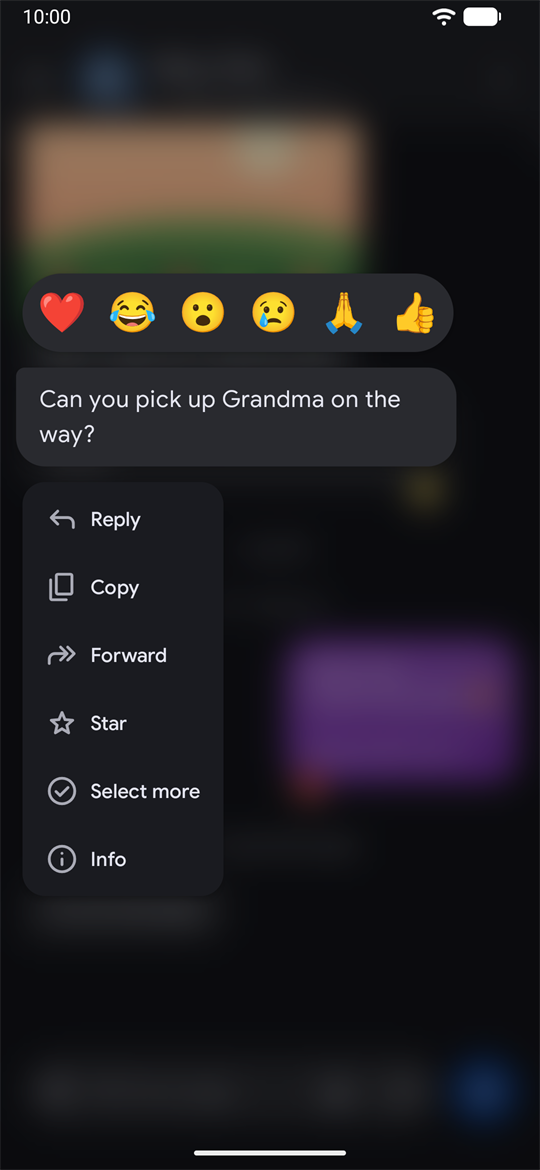
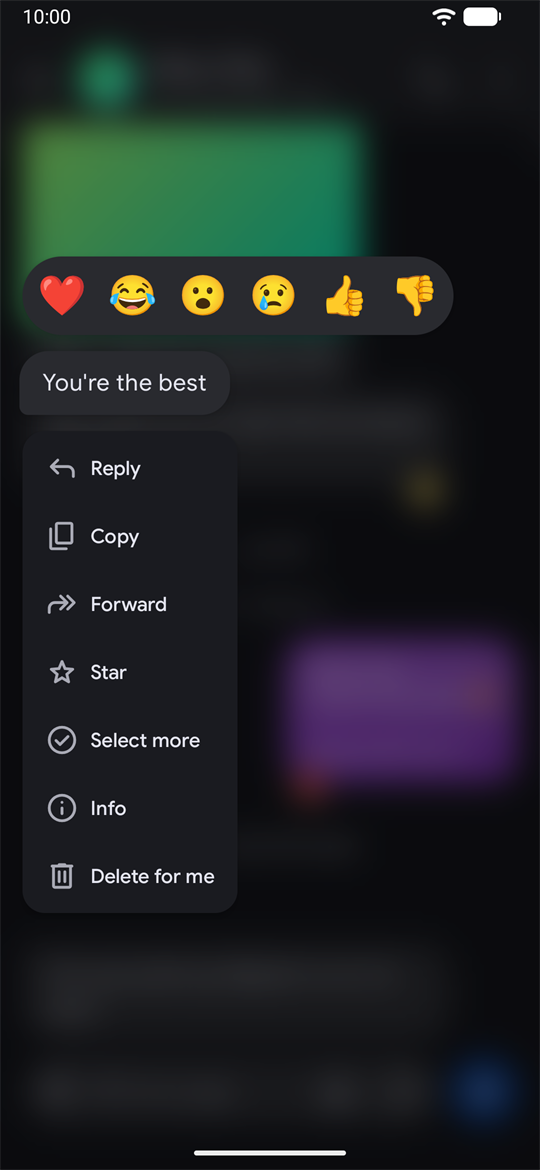
New Windows and Android pictures from 0.1.476's sample: Hermes with a table and code, voice messages that say so, labels in light mode; the separate light-mode and Android menu pictures are gone

diff --git a/windows/index.html b/windows/index.html
@@ -35,7 +35,7 @@
 
 <main>
   <h1>Message Link for Windows</h1>
-  <p class="lead">A native Windows app with all four services in one inbox. Message Link starts its own server on this PC.</p>
+  <p class="lead">A native Windows app with all four services in one inbox, and your Hermes Agent assistants beside them. Message Link starts its own server on this PC.</p>
 
   <div class="note">
     <p><strong>Coming soon to the Microsoft Store.</strong> It isn't available to download yet. This page will link to the Store listing once it's up.</p>
@@ -44,12 +44,11 @@
   <h2>A look around</h2>
   <div class="gallery">
     <figure><a href="voicemail.png"><img src="voicemail.png" width="1200" height="900" loading="lazy" alt="Dad's merged conversation with a voicemail's player and transcript."></a><figcaption>Voicemail plays in the conversation, with its transcript.</figcaption></figure>
-    <figure><a href="photo.jpg"><img src="photo.jpg" width="1200" height="900" loading="lazy" alt="A photo of a mountain lake open in the photo viewer."></a><figcaption>Photos open full size, inside the window.</figcaption></figure>
+    <figure><a href="hermes.png"><img src="hermes.png" width="1200" height="900" loading="lazy" alt="A Hermes conversation: a command Hermes held for approval, approved, then a reply with a table of photos by month, the PowerShell it ran and a note."></a><figcaption>Chat with Hermes Agent. Approve the commands it asks to run, and read its replies with tables and code.</figcaption></figure>
+    <figure><a href="photo.jpg"><img src="photo.jpg" width="1200" height="900" loading="lazy" alt="A photo of a mountain lake open in the photo viewer, over Jordan Rivera's conversation."></a><figcaption>Photos open full size in a window of their own.</figcaption></figure>
     <figure><a href="send-later.png"><img src="send-later.png" width="1200" height="900" loading="lazy" alt="The send button's menu: send in 1 hour, this evening, tomorrow morning, or choose a time."></a><figcaption>Send a message later: in an hour, this evening or at a time you choose.</figcaption></figure>
-    <figure><a href="labels.png"><img src="labels.png" width="1200" height="900" loading="lazy" alt="The list menu: Messages, Unread, Archive, Spam, Drafts, the Work, Family and Friends labels, and Saved."></a><figcaption>Labels and views narrow the conversation list.</figcaption></figure>
-    <figure><a href="console.png"><img src="console.png" width="1200" height="900" loading="lazy" alt="The chat console: recent messages from every service as lines of text."></a><figcaption>The chat console reads and answers from the keyboard.</figcaption></figure>
-    <figure><a href="light.png"><img src="light.png" width="1200" height="900" loading="lazy" alt="Message Link in light mode."></a><figcaption>Light or dark, the same as Windows or your choice.</figcaption></figure>
-  </div>
+    <figure><a href="labels.png"><img src="labels.png" width="1200" height="900" loading="lazy" alt="The list menu in light mode: Messages, Unread, Archive, Spam, Drafts, the Work, Family and Friends labels, and Saved."></a><figcaption>Labels and views narrow the conversation list. Light or dark, the same as Windows or your choice.</figcaption></figure>
+    <figure><a href="console.png"><img src="console.png" width="1200" height="900" loading="lazy" alt="The chat console in Windows Terminal: recent messages from every service as lines of text, then the conversation list."></a><figcaption>The chat console reads and answers from the keyboard, in Windows Terminal.</figcaption></figure>  </div>
   <p class="quiet">Pictures use made-up people.</p>
 
   <h2>What you need</h2>
@@ -84,6 +83,10 @@
     <div>
       <dt>Instagram</dt>
       <dd>Choose <strong>Connect</strong> and sign in with your Instagram username and password. Log in with Facebook isn't supported.</dd>
+    </div>
+    <div>
+      <dt>Hermes</dt>
+      <dd>On the server's Hermes page, choose <strong>Add an assistant</strong> and enter the Hermes profile's name. Run the one command the page shows on the computer that runs Hermes Agent.</dd>
     </div>
   </dl>
   <p>The sign-in windows are the services' own pages. Message Link never types your password for you.</p>

diff --git a/android/index.html b/android/index.html
@@ -35,7 +35,7 @@
 
 <main>
   <h1>Message Link for Android</h1>
-  <p class="lead">All four services in one inbox on your phone, through your own Message Link Server.</p>
+  <p class="lead">All four services in one inbox on your phone, and your Hermes Agent assistants beside them, through your own Message Link Server.</p>
 
   <div class="note">
     <p><strong>In invite-only testing on Google Play.</strong> It isn't public yet. This page will link to the Play listing once it's up.</p>
@@ -43,13 +43,12 @@
 
   <h2>A look around</h2>
   <div class="gallery tall">
-    <figure><a href="inbox.png"><img src="inbox.png" width="540" height="1170" loading="lazy" alt="The conversation list, with conversations from all four services."></a><figcaption>Every service in one list.</figcaption></figure>
+    <figure><a href="inbox.png"><img src="inbox.png" width="540" height="1170" loading="lazy" alt="The conversation list, with conversations from all four services and two Hermes assistants."></a><figcaption>Every service in one list.</figcaption></figure>
     <figure><a href="merged-light.png"><img src="merged-light.png" width="540" height="1170" loading="lazy" alt="Maya Chen's Instagram and Google Messages conversations shown together, in light mode."></a><figcaption>One person's conversations from several services, shown as one. Light or dark.</figcaption></figure>
+    <figure><a href="hermes.png"><img src="hermes.png" width="540" height="1170" loading="lazy" alt="A Hermes conversation: a question about a hike, and a reply with a plan, a table of times and a list of what to bring."></a><figcaption>Chat with Hermes Agent. Replies appear as it writes them.</figcaption></figure>
     <figure><a href="voicemail.png"><img src="voicemail.png" width="540" height="1170" loading="lazy" alt="Grandma's Google Voice voicemail playing, its transcript lit up to the words heard so far."></a><figcaption>Voicemail plays with its transcript, which follows along.</figcaption></figure>
-    <figure><a href="actions.png"><img src="actions.png" width="540" height="1170" loading="lazy" alt="A message held down: reactions above it, and Reply, Copy, Forward, Star, Select more and Info below."></a><figcaption>Press and hold a message to react, reply, forward or star it.</figcaption></figure>
-    <figure><a href="search.png"><img src="search.png" width="540" height="1170" loading="lazy" alt="Search results for Grandma: her conversation and three messages that mention her."></a><figcaption>Search names, numbers and messages, including history kept on your server.</figcaption></figure>
-    <figure><a href="menu.png"><img src="menu.png" width="540" height="1170" loading="lazy" alt="The menu: Messages, Unread, Voicemail, each service, Remind me later, Scheduled, Drafts and Saved Messages."></a><figcaption>Views, each service, reminders, scheduled messages and drafts.</figcaption></figure>
-  </div>
+    <figure><a href="actions.png"><img src="actions.png" width="540" height="1170" loading="lazy" alt="A message held down: reactions above it, and Reply, Copy, Forward, Star, Select more, Info and Delete for me below."></a><figcaption>Press and hold a message to react, reply, forward or star it.</figcaption></figure>
+    <figure><a href="search.png"><img src="search.png" width="540" height="1170" loading="lazy" alt="Search results for Grandma: her conversation and two messages that mention her."></a><figcaption>Search names, numbers and messages, including history kept on your server.</figcaption></figure>  </div>
   <p class="quiet">Pictures use made-up people.</p>
 
   <h2>What you need</h2>

diff --git a/index.html b/index.html
@@ -35,13 +35,13 @@
 
 <main>
   <h1>All your messaging apps in one place</h1>
-  <p class="lead">Google Messages, Messenger, Google Voice and Instagram, together on your PC and your phone.</p>
+  <p class="lead">Google Messages, Messenger, Google Voice and Instagram, together on your PC and your phone, with your Hermes Agent beside them.</p>
   <p class="status">Message Link isn't public yet. The guides below show how setup goes; <a href="#downloads">downloads</a> come with the first release.</p>
   <p>Message Link is a native app for Windows 11, and there is an Android app too. It talks to each service directly, the same way the service's own app or website does. Nothing goes through anyone else's cloud: your accounts are signed in on a Message Link Server you run yourself, on your PC or at home.</p>
 
-  <figure class="shot"><img src="assets/windows.png" width="1200" height="900" alt="Message Link on Windows: the conversation list beside Maya Chen's conversations from two services, shown as one."></figure>
+  <figure class="shot"><img src="assets/windows.png" width="1200" height="900" alt="Message Link on Windows: the conversation list beside Maya Chen's conversations from three services, shown as one."></figure>
   <div class="phones">
-    <img src="assets/phone-inbox.png" width="540" height="1170" alt="Message Link on Android: conversations from all four services in one list.">
+    <img src="assets/phone-inbox.png" width="540" height="1170" alt="Message Link on Android: conversations from all four services and Hermes in one list.">
     <img src="assets/phone-chat.png" width="540" height="1170" alt="One person's Instagram and Google Messages conversations shown together.">
   </div>
   <p class="quiet">Pictures use made-up people.</p>
@@ -78,6 +78,7 @@
     <li><strong>Messenger</strong>: your Facebook sign-in. Encrypted chats work too.</li>
     <li><strong>Google Voice</strong>: your Google sign-in at voice.google.com. Add as many Voice numbers as you have.</li>
     <li><strong>Instagram</strong>: your Instagram username and password. Log in with Facebook isn't supported.</li>
+    <li><strong>Hermes</strong>: a Hermes Agent your server can reach on your network. Each Hermes profile is an assistant with a conversation of its own; there's no sign-in.</li>
   </ul>
 
   <h2 id="downloads">Downloads</h2>
